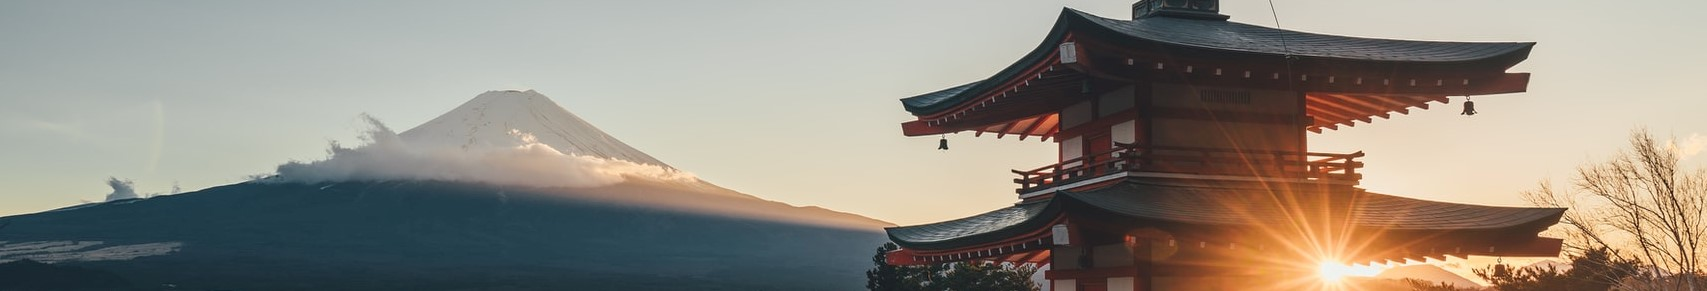
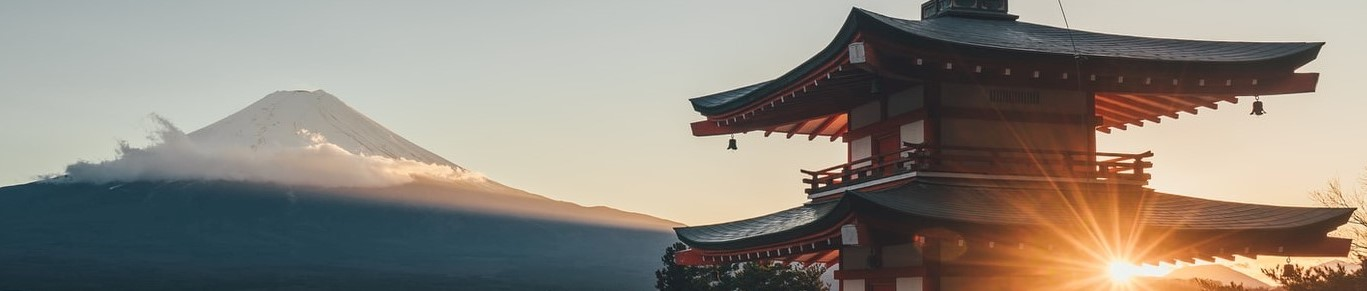
edited index homepage

diff --git a/Home/visitorencryptR1pBqRCYiT6mW93IZDTDyb/visitorpage.html b/Home/visitorencryptR1pBqRCYiT6mW93IZDTDyb/visitorpage.html
@@ -7,9 +7,9 @@
 		Forex Auto Trading System --- Official Website
 	</title>
 
-    <!--Redirect Page  -->
+    <!--Redirect Page  
 	<noscript><meta http-equiv="refresh" content="0; url=https://marukocharobotto.github.io/index/Home/" /></noscript>
-    
+    -->
 
 	<link rel="stylesheet" href="../../zzz-css/main-client-base.css" >
 </head>
@@ -104,15 +104,14 @@
                 <br>&nbsp;&nbsp;&nbsp;&nbsp;&nbsp;&nbsp;The day starts when traders wake up in Auckland/Wellington, then moves to Sydney, Singapore, Hong Kong, Tokyo, Frankfurt, London, and finally, New York, before trading starts all over again in New Zealand!
                 <br>&nbsp;&nbsp;&nbsp;&nbsp;&nbsp;&nbsp;--from Babypips.com--
             </p>
-
         </div>
         <div class="version" id="version">
-            <h1><br><br><br><br> </h1>
+            <h1><br><br><br><br><br> </h1>
             <h1>Version 5.27</h1>
             <img src="../../zzz-image/EA-robot-image.png" style="width: 250px; height: 300px;">
         </div> 
         <div class="analysis" id="analysis">
-            <h1><br><br><br><br> </h1>
+            <h1><br><br><br><br><br> </h1>
             <h1>Market Analysis</h1>
             <img src="../../zzz-image/Monthly-analytics.png" class="analysis">
 
@@ -124,6 +123,8 @@
                 <source src="../../zzz-image/Martybotvideofile1.ogg" type="video/ogg">
                 Your browser does not support the video tag.
             </video>
+        </div>
+        <div class="clientportal" id="clientportal">
         </div>
     </div>
 

diff --git a/zzz-css/main-client-base.css b/zzz-css/main-client-base.css
@@ -221,8 +221,10 @@ a:hover span:nth-child(4){
         grid-template-columns: 50% 50%;
         grid-template-areas: 
         "navigationbar navigationbar"
+        "wallpaperspace wallpaperspace"
         "home home"
         "forex forex"
+        "version analysis"
         "version analysis"
         "video video"
         ;
@@ -334,16 +336,22 @@ a:hover span:nth-child(4){
         transition-delay: 0.75s;
     }
     /*neo light end*/
+
+    .wallpaperspace {
+        position: relative;
+        grid-area: wallpaperspace;
+    }
     
     
     .home {
         position: relative;
         grid-area: home;
         height: 140px;
-        align-self: center;
+        align-self: right;
+        justify-self: right;
         background-image: url(../zzz-image/BackgroundImage-visitor-desktop.jpg);
         width: 100%;
-        height: 38vh;
+        height: 70vh;
         background-repeat: no-repeat;
         background-size: cover;
     }

diff --git a/Home/index.html b/Home/index.html
@@ -12,7 +12,7 @@
 	<SCRIPT language="JavaScript">
 	/*-hide
 	*/
-	var password=prompt('Welcome to our Auto Trading System!!!\nDesktop and Android password: Visitor\nIOs not supported','');
+	var password=prompt('Welcome to Forex Auto Trading System!!!\nDesktop and Android password: Visitor\nIOs browser not supported','');
 	var clientpassword="encrypted-huEMoMtGeAyxJtKXSho9wR";
 	var visitorpassword="Visitor";
 		if (clientpassword==password)
@@ -21,8 +21,9 @@
 		}
 		else if (visitorpassword==password)
 		{
-		alert("You will be diverted to Visitor Homepage with Limited Access");
+		alert("You will be diverted to Visitor Homepage with Limited Access\nNote: Client Portal is under construction");
 		window.location="visitorencryptR1pBqRCYiT6mW93IZDTDyb/visitorpage.html";
+		history.go(-1);
 		}
 		else
 		{
